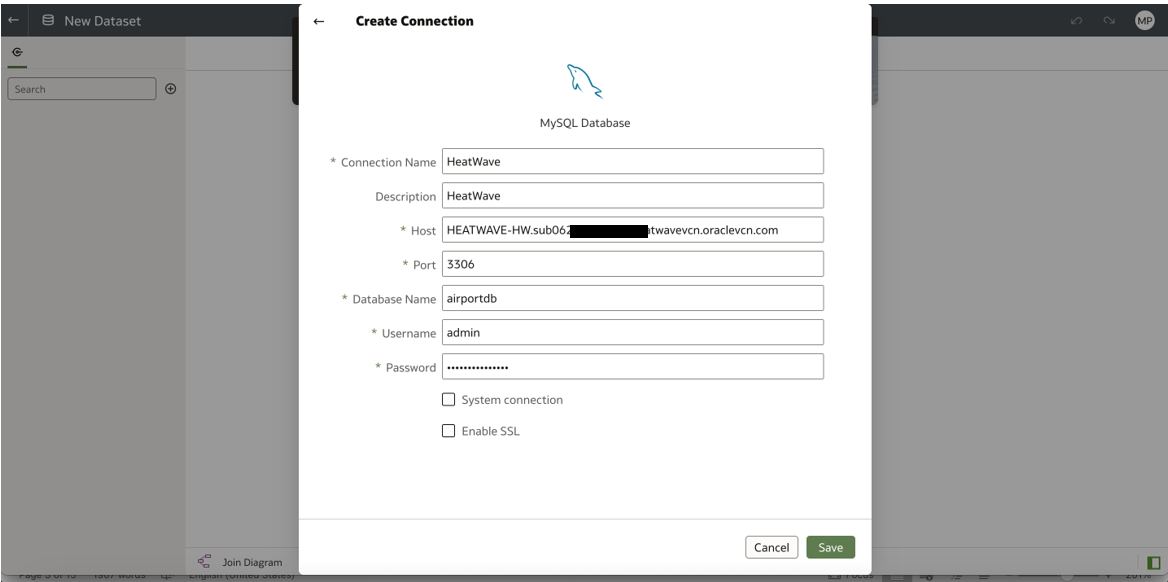
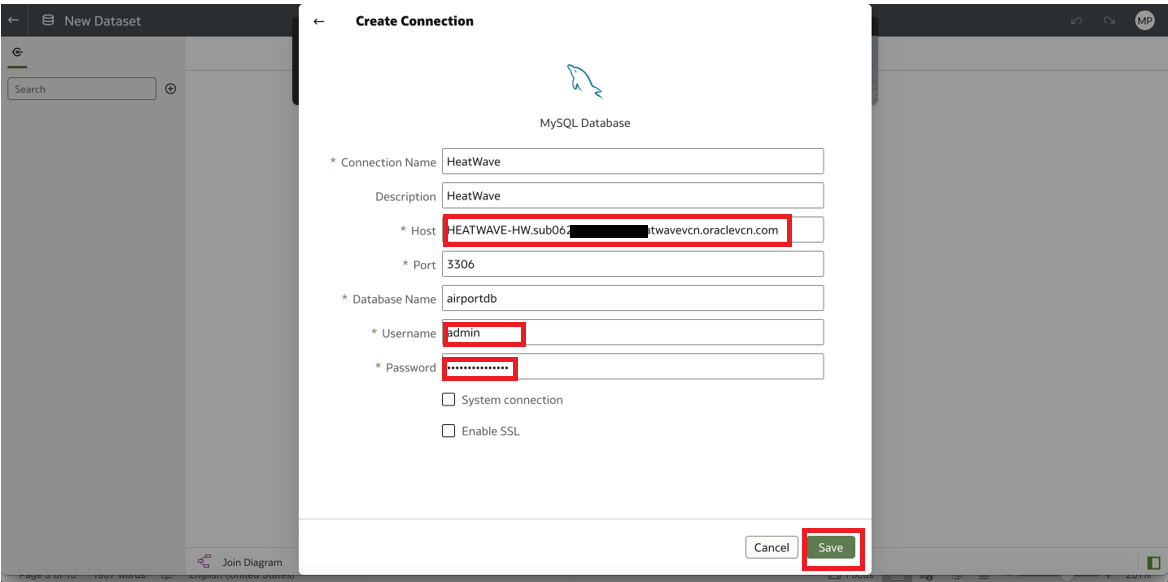
updated OAC
updated OAC

Changed region(s): [[0.3699, 0.3402, 0.6781, 0.433], [0.3699, 0.5258, 0.4623, 0.6804], [0.6781, 0.8969, 0.7397, 0.9897]]

diff --git a/do-oac-advanced/do-oac-advanced.md b/do-oac-advanced/do-oac-advanced.md
@@ -91,7 +91,7 @@ In this lab, you will be guided through the following tasks:
 
 
 
-5. Wait 30 minutes for the process to finish, then continue to Task 3
+5. Wait 15 minutes for the process to finish, then continue to Task 3
     ![oac private access created  ](./images/created-pac-oac.png " created-pac-oac")
 
 ## Task 3: Get HeatWave DB Hostname **
@@ -119,25 +119,31 @@ In this lab, you will be guided through the following tasks:
 3. Create a Connection to HeatWave to build a dashboard
 
     ![analytics home page](./images/analytics-home-page.png " analytics-home-page")
+4. Click the "Create Connection" button
+    ![analytics home page](./images/analytics-dataset-connections.png " analytics-home-page")
 
-4. Search for mysql and select mysql as the database
+5. Search for Heatwave and select Heatwave as the database
 
-    Example: **HEATWAVE-HW.sub0….heatwavevcn.oraclevcn.com**
+      ![connection search for heatwave](./images/add-connection-mysql.png "aconnection search for heatwave")
 
-    ![add mysql connection](./images/add-connection-mysql.png "add-connection-mysql ")
+6. Specify the connections details
 
-5. Specify the connections details
+    - Specify the hostname of HEATWAVE-DB
+    - Use the FQDN information you save in Step 3
+    - Port: 3306
+    - Database Name: airportdb  
+    - Be sure to use the Heatwave db user name and password
 
-    - Specify the hostname of HEATWAVE-DB in FQDN from Task 4.
-    - Be sure to use mysql admin user name and password.
+   Hit the "Save" button to fisnish creating the connection.
 
     ![config myql connection](./images/config-add-connection-mysql.png "config-add-connection-mysql ")
 
-6. Select the MySQL Connection created earlier
+7. The completed connection will display  a "New Dataset" page. Click on the "Schemas" link and select the "airportdb" schema
 
-7. Double click "Manual Query" on the left panel and click ”Manual Query” tab on the bottom
+    ![open schema](./images/open-schema.png "open schema ")
+8. Double click the "passenger_survey" table. In a few seconds it will display all of the table columns. Click the "Save" icon to display the "Save Dataset As" dialog box and set the name and escription to "passenger-survey", and click the "OK" button
 
-    ![manual query](./images/manual-query-select.png "manual-query-select ")
+    ![save schema dataset](./images/schema-dataset.png "save schema dataset ")
 
 8. Add the following SQL query (find per-company average age of passengers from Switzerland, Italy and France) in the statement text box, and select “Live” in Data Access on the right, then click OK on the top
 
